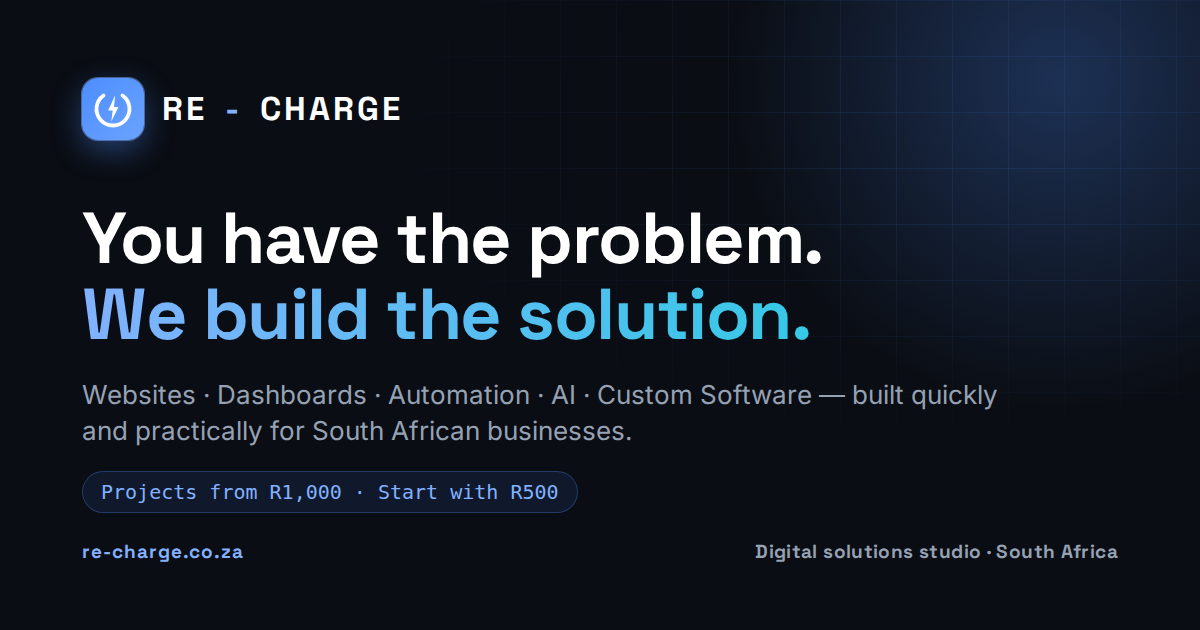
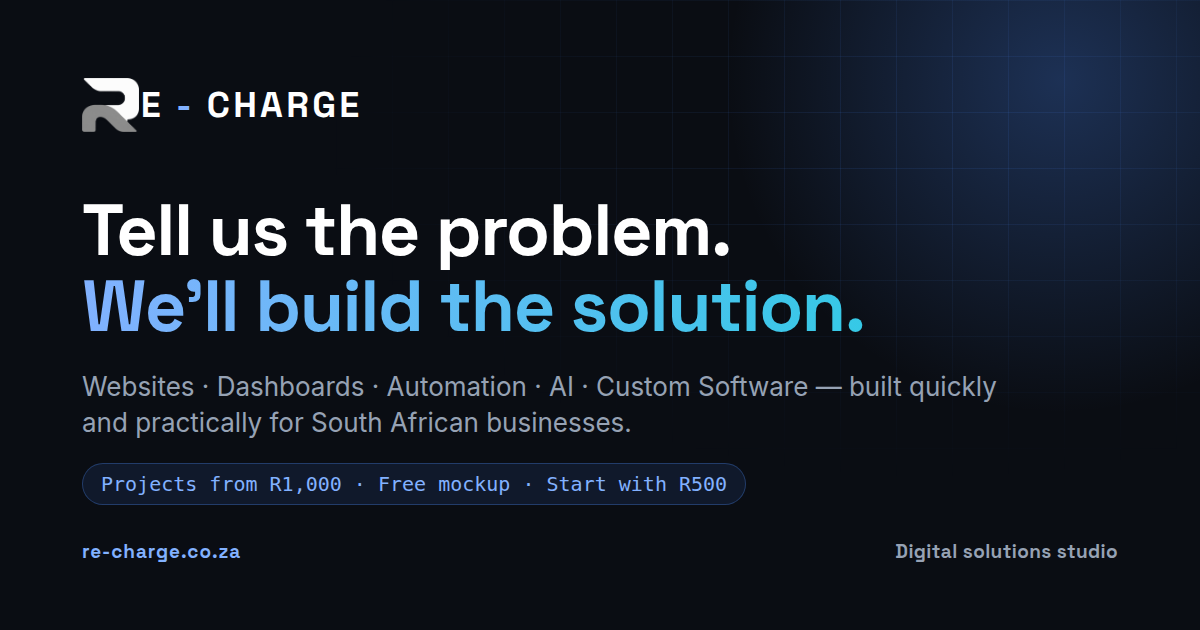
New social preview image with the R mark and tagline (cache-busted); Delete action for leads in the admin
Claude-Session: https://claude.ai/code/session_01M1NKcTwKaxVh1QCPGxnW1z

diff --git a/index.html b/index.html
@@ -13,14 +13,14 @@
   <meta property="og:site_name" content="Re-Charge" />
   <meta property="og:title" content="Re-Charge — Tell us the problem. We'll build the solution." />
   <meta property="og:description" content="Websites, dashboards, automation, AI and custom software for South African businesses. Projects from R1,000, start with a R500 deposit." />
-  <meta property="og:image" content="https://re-charge.co.za/og-image.png" />
+  <meta property="og:image" content="https://re-charge.co.za/og-image.png?v=2" />
   <meta property="og:image:width" content="1200" />
   <meta property="og:image:height" content="630" />
   <meta property="og:locale" content="en_ZA" />
   <meta name="twitter:card" content="summary_large_image" />
   <meta name="twitter:title" content="Re-Charge — Tell us the problem. We'll build the solution." />
   <meta name="twitter:description" content="Websites, dashboards, automation, AI and custom software for South African businesses and individuals." />
-  <meta name="twitter:image" content="https://re-charge.co.za/og-image.png" />
+  <meta name="twitter:image" content="https://re-charge.co.za/og-image.png?v=2" />
 
   <link rel="icon" type="image/png" sizes="32x32" href="assets/favicon-32.png?v=6" />
   <link rel="apple-touch-icon" href="assets/apple-touch-icon.png?v=6" />
@@ -42,7 +42,7 @@
         "name": "Re-Charge",
         "url": "https://re-charge.co.za/",
         "logo": "https://re-charge.co.za/assets/logo-mark.png",
-        "image": "https://re-charge.co.za/og-image.png",
+        "image": "https://re-charge.co.za/og-image.png?v=2",
         "slogan": "Tell us the problem. We'll build the solution.",
         "description": "Re-Charge is a South African digital solutions studio building websites, dashboards, automation, AI integrations and custom software for businesses and individuals. Projects from R1,000.",
         "areaServed": { "@type": "Country", "name": "South Africa" },

diff --git a/admin/admin.js b/admin/admin.js
@@ -417,6 +417,7 @@ async function renderProject(id) {
       <select class="btn btn--ghost" data-act="snooze" aria-label="Snooze reminders"><option value="">${isSnoozed(p) ? "Snoozed until " + fmtD(p.snoozed_until) : "Snooze…"}</option><option value="1">1 day</option><option value="3">3 days</option><option value="7">7 days</option>${isSnoozed(p) ? '<option value="0">Unsnooze</option>' : ""}</select>
       <button class="btn btn--ghost" data-act="archive" aria-pressed="${p.archived}">${p.archived ? "Unarchive" : "Archive"}</button>
       ${p.spam ? '<button class="btn btn--ghost" data-act="unspam">Not spam</button>' : '<button class="btn btn--ghost" data-act="spam">Spam</button>'}
+      <button class="btn btn--ghost" data-act="delete" style="color:var(--danger)">Delete</button>
     </div>
   </div>
   ${p.spam ? '<p class="adm-error tiny" style="margin-bottom:0.8rem">Marked as spam — hidden from the pipeline.</p>' : ""}
@@ -529,6 +530,10 @@ async function renderProject(id) {
     patch({ spam: true, archived: true }, "Marked as spam");
   });
   view.querySelector('[data-act="unspam"]')?.addEventListener("click", () => patch({ spam: false, archived: false }, "Restored"));
+  view.querySelector('[data-act="delete"]').addEventListener("click", async () => {
+    if (!confirm(`Delete ${p.ref} (${p.business || p.name || "this lead"}) for good?\n\nThis removes its timeline, notes and messages. Use Archive if you just want it out of the way.`)) return;
+    try { await api.projects.remove(p.id); toast(`${p.ref} deleted`); await loadAll(true); location.hash = "#/pipeline"; } catch (e) { toast(e.message, true); }
+  });
 
   const form = $("pForm");
   form.status.addEventListener("change", () => { $("reasonRow").hidden = form.status.value !== "declined"; });

diff --git a/services.html b/services.html
@@ -13,14 +13,14 @@
   <meta property="og:site_name" content="Re-Charge" />
   <meta property="og:title" content="Services — Websites, Dashboards, Automation, AI &amp; Custom Software | Re-Charge" />
   <meta property="og:description" content="What Re-Charge builds and what it costs: websites from R1,000, dashboards and automation from R2,000, AI integrations from R3,500, custom tools from R4,500. See an estimate before you pay; start with a R500 deposit." />
-  <meta property="og:image" content="https://re-charge.co.za/og-image.png" />
+  <meta property="og:image" content="https://re-charge.co.za/og-image.png?v=2" />
   <meta property="og:image:width" content="1200" />
   <meta property="og:image:height" content="630" />
   <meta property="og:locale" content="en_ZA" />
   <meta name="twitter:card" content="summary_large_image" />
   <meta name="twitter:title" content="Services — Websites, Dashboards, Automation, AI &amp; Custom Software | Re-Charge" />
   <meta name="twitter:description" content="What Re-Charge builds and what it costs: websites from R1,000, dashboards and automation from R2,000, AI integrations from R3,500, custom tools from R4,500. See an estimate before you pay; start with a R500 deposit." />
-  <meta name="twitter:image" content="https://re-charge.co.za/og-image.png" />
+  <meta name="twitter:image" content="https://re-charge.co.za/og-image.png?v=2" />
 
   <link rel="icon" type="image/png" sizes="32x32" href="assets/favicon-32.png?v=6" />
   <link rel="apple-touch-icon" href="assets/apple-touch-icon.png?v=6" />

diff --git a/pricing.html b/pricing.html
@@ -13,14 +13,14 @@
   <meta property="og:site_name" content="Re-Charge" />
   <meta property="og:title" content="Pricing, Deposit &amp; Hosting — From R500 | Re-Charge" />
   <meta property="og:description" content="Re-Charge pricing: quick builds and websites from R1,000, dashboards and automation from R2,000, AI from R3,500, custom tools from R4,500. R500 refundable deposit credited to your project. Hosting &amp; Care from R400/year." />
-  <meta property="og:image" content="https://re-charge.co.za/og-image.png" />
+  <meta property="og:image" content="https://re-charge.co.za/og-image.png?v=2" />
   <meta property="og:image:width" content="1200" />
   <meta property="og:image:height" content="630" />
   <meta property="og:locale" content="en_ZA" />
   <meta name="twitter:card" content="summary_large_image" />
   <meta name="twitter:title" content="Pricing, Deposit &amp; Hosting — From R500 | Re-Charge" />
   <meta name="twitter:description" content="Re-Charge pricing: quick builds and websites from R1,000, dashboards and automation from R2,000, AI from R3,500, custom tools from R4,500. R500 refundable deposit credited to your project. Hosting &amp; Care from R400/year." />
-  <meta name="twitter:image" content="https://re-charge.co.za/og-image.png" />
+  <meta name="twitter:image" content="https://re-charge.co.za/og-image.png?v=2" />
 
   <link rel="icon" type="image/png" sizes="32x32" href="assets/favicon-32.png?v=6" />
   <link rel="apple-touch-icon" href="assets/apple-touch-icon.png?v=6" />

diff --git a/start.html b/start.html
@@ -13,14 +13,14 @@
   <meta property="og:site_name" content="Re-Charge" />
   <meta property="og:title" content="Start a Project — Tell Us What You Need | Re-Charge" />
   <meta property="og:description" content="Describe your problem or idea in the Re-Charge Project Builder, get an indicative estimate, and start with a R500 deposit credited to your project. Websites, dashboards, automation, AI and custom software." />
-  <meta property="og:image" content="https://re-charge.co.za/og-image.png" />
+  <meta property="og:image" content="https://re-charge.co.za/og-image.png?v=2" />
   <meta property="og:image:width" content="1200" />
   <meta property="og:image:height" content="630" />
   <meta property="og:locale" content="en_ZA" />
   <meta name="twitter:card" content="summary_large_image" />
   <meta name="twitter:title" content="Start a Project — Tell Us What You Need | Re-Charge" />
   <meta name="twitter:description" content="Describe your problem or idea in the Re-Charge Project Builder, get an indicative estimate, and start with a R500 deposit credited to your project. Websites, dashboards, automation, AI and custom software." />
-  <meta name="twitter:image" content="https://re-charge.co.za/og-image.png" />
+  <meta name="twitter:image" content="https://re-charge.co.za/og-image.png?v=2" />
 
   <link rel="icon" type="image/png" sizes="32x32" href="assets/favicon-32.png?v=6" />
   <link rel="apple-touch-icon" href="assets/apple-touch-icon.png?v=6" />

diff --git a/demos.html b/demos.html
@@ -13,14 +13,14 @@
   <meta property="og:site_name" content="Re-Charge" />
   <meta property="og:title" content="Try What We Build — Live Demos | Re-Charge" />
   <meta property="og:description" content="Working demos you can click and try: a plumbing quote calculator, a sales dashboard and an AI business assistant, built for fictional South African businesses. See what Re-Charge can build for you." />
-  <meta property="og:image" content="https://re-charge.co.za/og-image.png" />
+  <meta property="og:image" content="https://re-charge.co.za/og-image.png?v=2" />
   <meta property="og:image:width" content="1200" />
   <meta property="og:image:height" content="630" />
   <meta property="og:locale" content="en_ZA" />
   <meta name="twitter:card" content="summary_large_image" />
   <meta name="twitter:title" content="Try What We Build — Live Demos | Re-Charge" />
   <meta name="twitter:description" content="Working demos you can click and try: a plumbing quote calculator, a sales dashboard and an AI business assistant, built for fictional South African businesses. See what Re-Charge can build for you." />
-  <meta name="twitter:image" content="https://re-charge.co.za/og-image.png" />
+  <meta name="twitter:image" content="https://re-charge.co.za/og-image.png?v=2" />
 
   <link rel="icon" type="image/png" sizes="32x32" href="assets/favicon-32.png?v=6" />
   <link rel="apple-touch-icon" href="assets/apple-touch-icon.png?v=6" />

diff --git a/terms.html b/terms.html
@@ -13,14 +13,14 @@
   <meta property="og:site_name" content="Re-Charge" />
   <meta property="og:title" content="Terms &amp; Deposit | Re-Charge" />
   <meta property="og:description" content="How Re-Charge projects work: the R500 deposit, payment, refunds, revisions, ownership, domains, hosting and care. A plain-language summary." />
-  <meta property="og:image" content="https://re-charge.co.za/og-image.png" />
+  <meta property="og:image" content="https://re-charge.co.za/og-image.png?v=2" />
   <meta property="og:image:width" content="1200" />
   <meta property="og:image:height" content="630" />
   <meta property="og:locale" content="en_ZA" />
   <meta name="twitter:card" content="summary_large_image" />
   <meta name="twitter:title" content="Terms &amp; Deposit | Re-Charge" />
   <meta name="twitter:description" content="How Re-Charge projects work: the R500 deposit, payment, refunds, revisions, ownership, domains, hosting and care. A plain-language summary." />
-  <meta name="twitter:image" content="https://re-charge.co.za/og-image.png" />
+  <meta name="twitter:image" content="https://re-charge.co.za/og-image.png?v=2" />
 
   <link rel="icon" type="image/png" sizes="32x32" href="assets/favicon-32.png?v=6" />
   <link rel="apple-touch-icon" href="assets/apple-touch-icon.png?v=6" />

diff --git a/privacy.html b/privacy.html
@@ -13,14 +13,14 @@
   <meta property="og:site_name" content="Re-Charge" />
   <meta property="og:title" content="Privacy Policy | Re-Charge" />
   <meta property="og:description" content="How Re-Charge collects, uses and protects the information and files you submit through the Project Builder and forms. Plain-language summary." />
-  <meta property="og:image" content="https://re-charge.co.za/og-image.png" />
+  <meta property="og:image" content="https://re-charge.co.za/og-image.png?v=2" />
   <meta property="og:image:width" content="1200" />
   <meta property="og:image:height" content="630" />
   <meta property="og:locale" content="en_ZA" />
   <meta name="twitter:card" content="summary_large_image" />
   <meta name="twitter:title" content="Privacy Policy | Re-Charge" />
   <meta name="twitter:description" content="How Re-Charge collects, uses and protects the information and files you submit through the Project Builder and forms. Plain-language summary." />
-  <meta name="twitter:image" content="https://re-charge.co.za/og-image.png" />
+  <meta name="twitter:image" content="https://re-charge.co.za/og-image.png?v=2" />
 
   <link rel="icon" type="image/png" sizes="32x32" href="assets/favicon-32.png?v=6" />
   <link rel="apple-touch-icon" href="assets/apple-touch-icon.png?v=6" />

diff --git a/admin/mock.js b/admin/mock.js
@@ -104,6 +104,7 @@ export async function createApi() {
         return clone(p);
       },
       async insert(row) { const p = P({ ...row, created_at: new Date().toISOString(), updated_at: new Date().toISOString() }); projects.unshift(p); ev(p, "created", "Added manually", 0); return clone(p); },
+      async remove(id) { const i = projects.findIndex((x) => x.id === id); if (i >= 0) projects.splice(i, 1); return null; },
     },
     events: {
       async list(projectId) { return clone(events.filter((e) => e.project_id === projectId).sort((a, b) => b.created_at.localeCompare(a.created_at))); },

diff --git a/admin/api.js b/admin/api.js
@@ -39,6 +39,7 @@ export async function createApi(cfg) {
         return ok(await supa.from("projects").update(patch).eq("id", id).select("*").single());
       },
       async insert(row) { return ok(await supa.from("projects").insert(row).select("*").single()); },
+      async remove(id) { return ok(await supa.from("projects").delete().eq("id", id)); },
     },
     events: {
       async list(projectId) {
